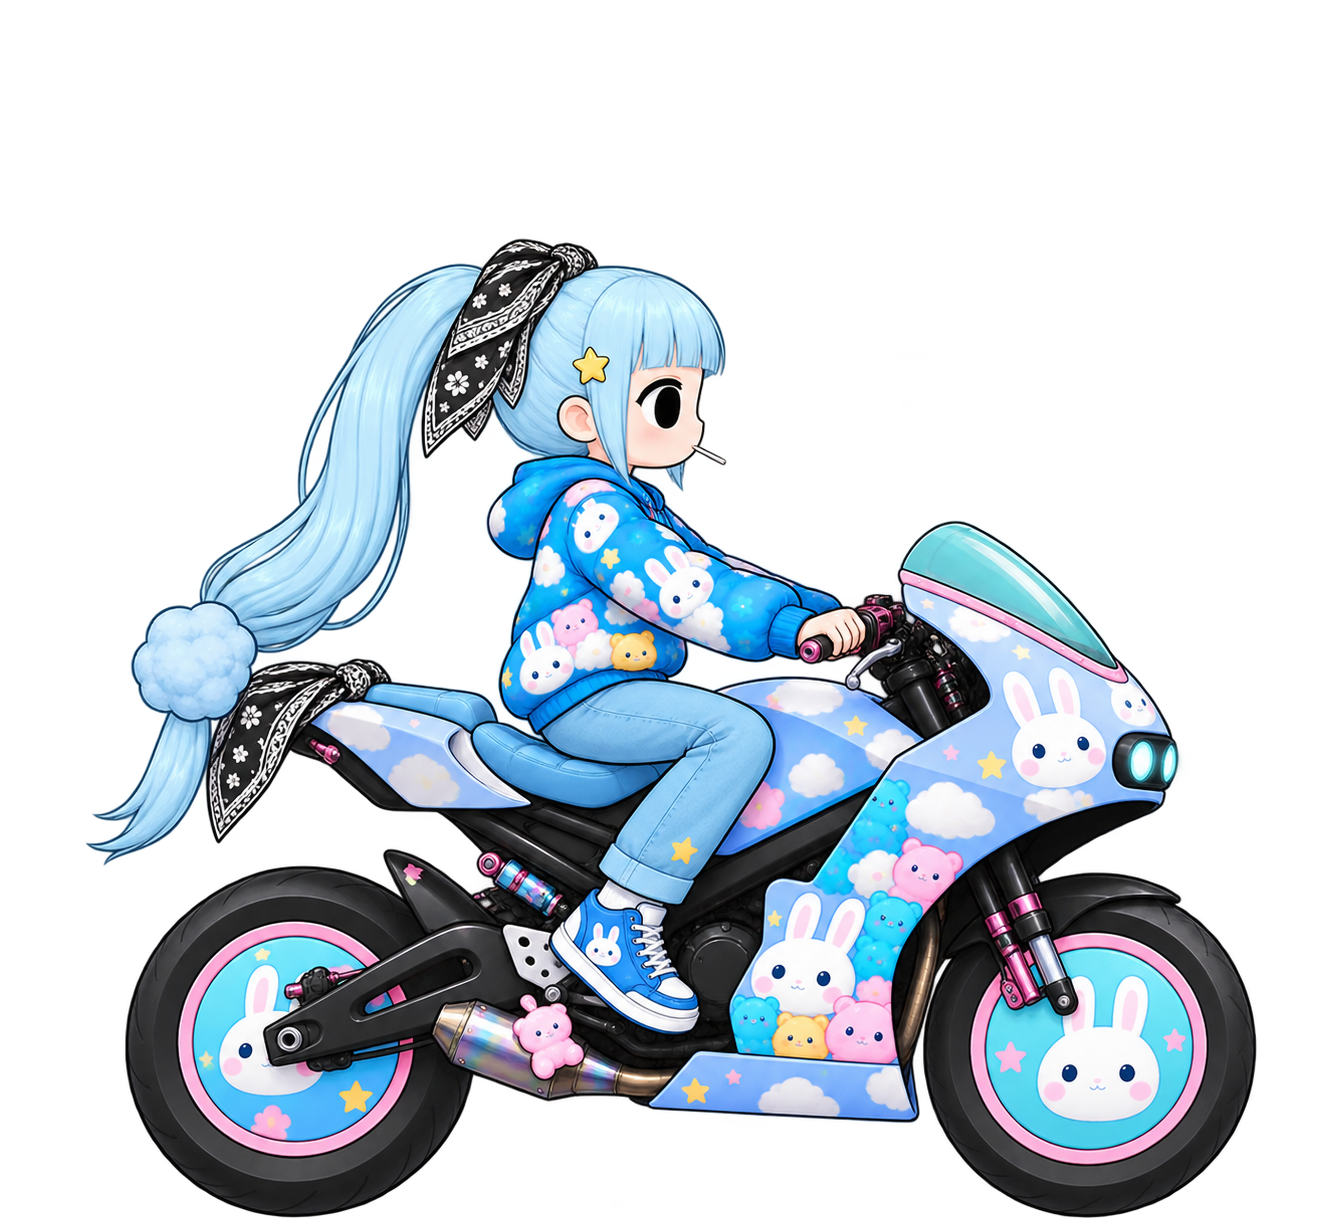
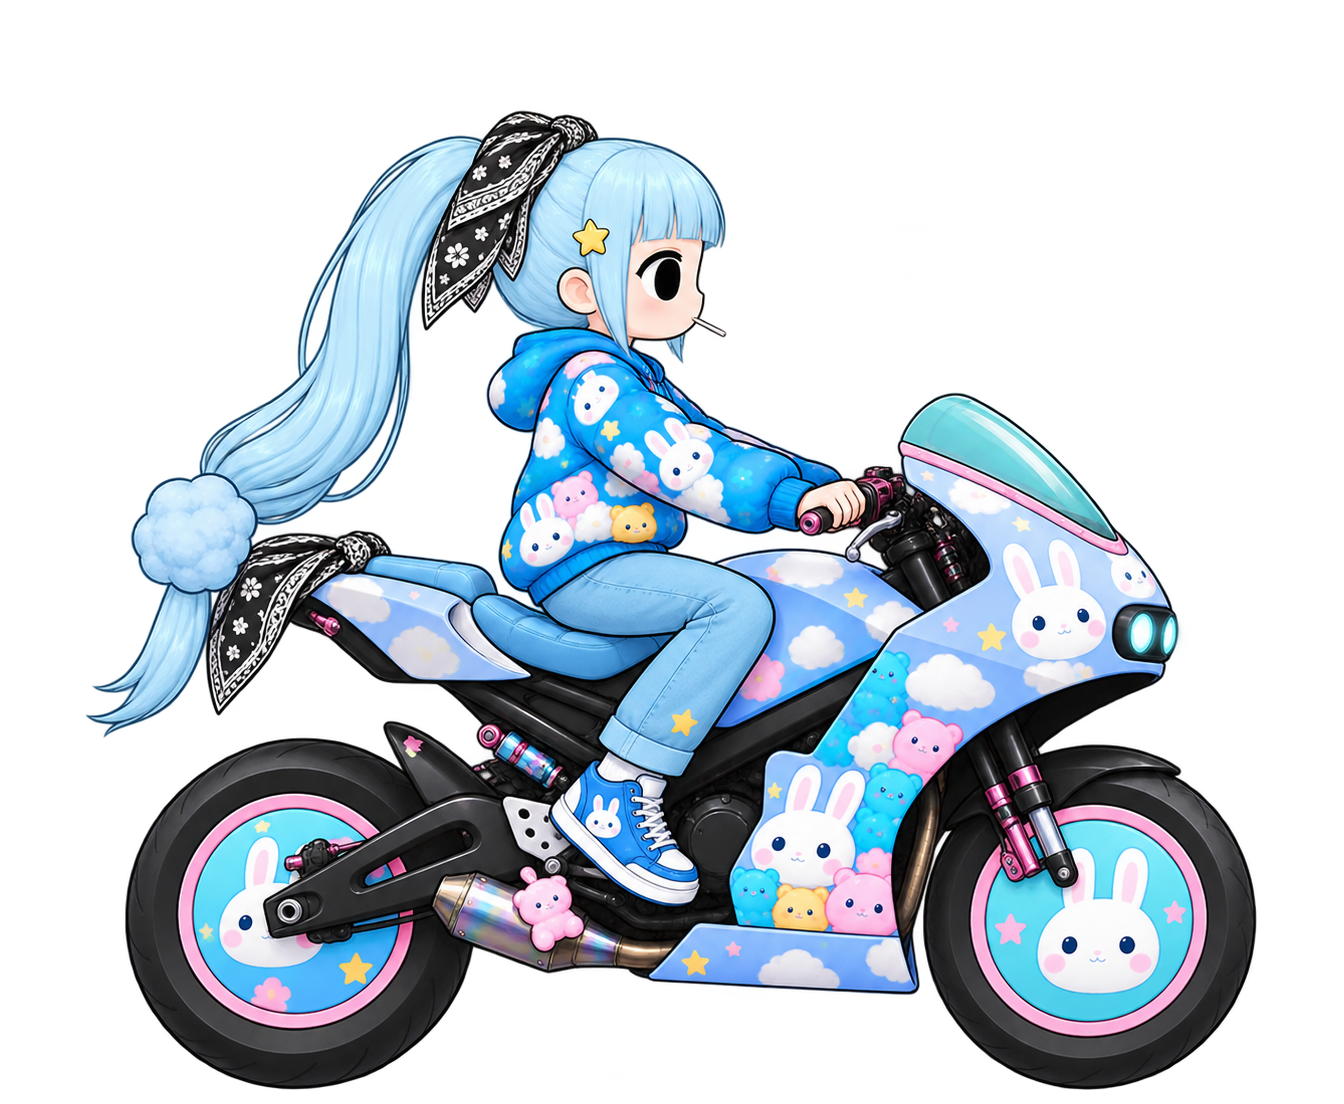
MOEtorcycles: rebuild ABBA from clean transparent landing art
ABBA's landing frames are now natively transparent, so drop the white-key
preprocess for her ride and rebuild the sprites.

diff --git a/moetorcycles/build_assets.py b/moetorcycles/build_assets.py
@@ -143,8 +143,7 @@ build_ride_aligned("bradley", {
 })
 
 # ===========================================================================
-#  RIDE: ABBA  (mixed canvas sizes -> aligned; landing frames are white-bg ->
-#  key them out; other poses are already transparent so keying no-ops)
+#  RIDE: ABBA  (mixed canvas sizes -> aligned mode; all frames now transparent)
 # ===========================================================================
 build_ride_aligned("abba", {
     "ride":    "abba_idle_01.png",
@@ -152,7 +151,7 @@ build_ride_aligned("abba", {
     "air":     "abba_airborne_01.png",
     "land":    "abba_landing_01.png",
     "crash":   "abba_crash_01.png",
-}, preprocess=remove_white_bg)
+})
 
 # ---- MOE Zedong Dustoff (shield rescue helicopter) ----
 heli = load("skill_dustoff.png")
